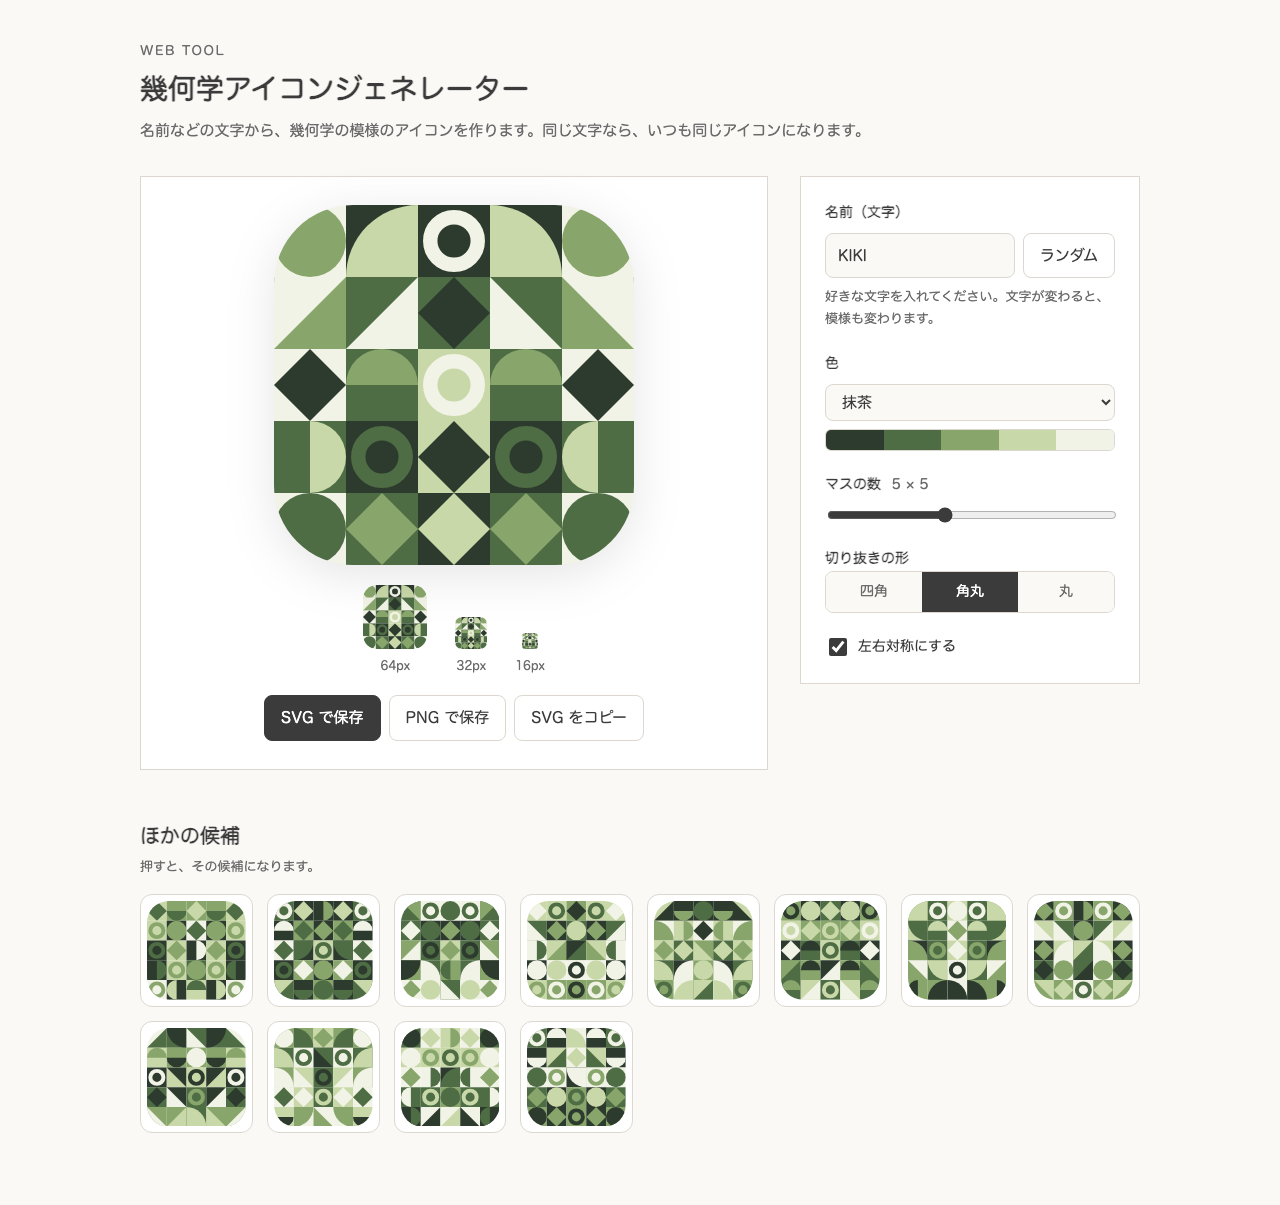
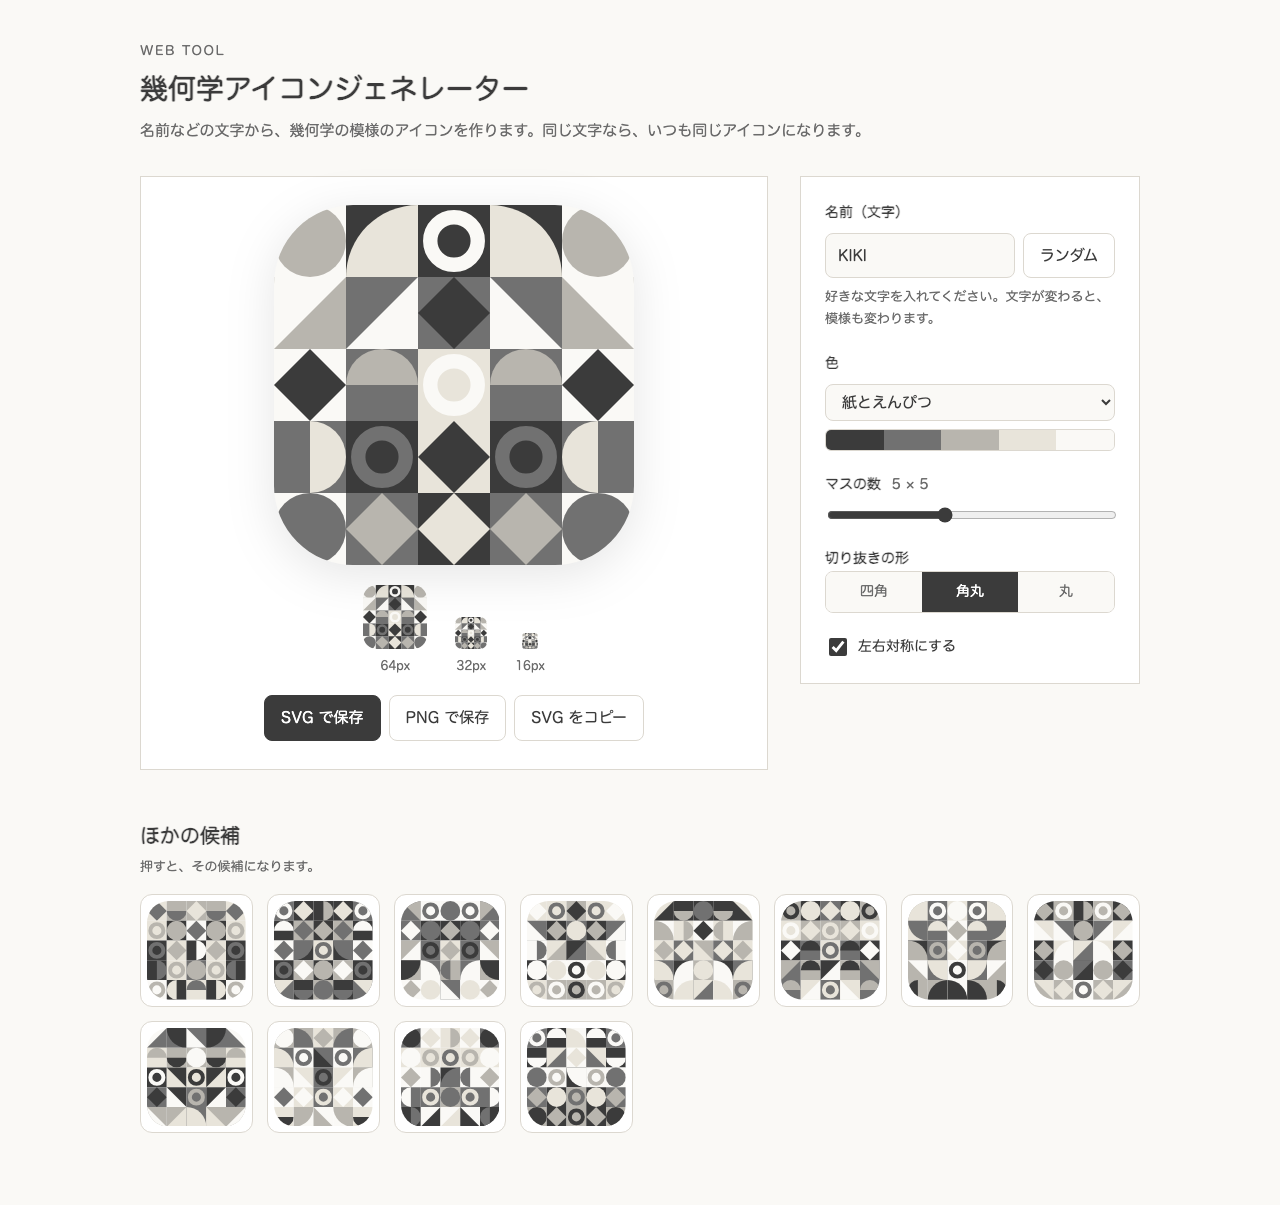
最初の色を「紙とえんぴつ」にする
ポートフォリオのカードの絵（鉛筆画のグレー）と、デモを開いたときの色の雰囲気をそろえる。
README のスクリーンショットも、同じ色に更新した。

diff --git a/src/main.ts b/src/main.ts
@@ -14,7 +14,8 @@ interface State {
 
 const state: State = {
   seed: 'KIKI',
-  paletteId: PALETTES[0]?.id ?? 'matcha',
+  // 最初の色：ポートフォリオの鉛筆画に合わせて「紙とえんぴつ」にする
+  paletteId: 'paper',
   grid: 5,
   symmetric: true,
   mask: 'rounded',
